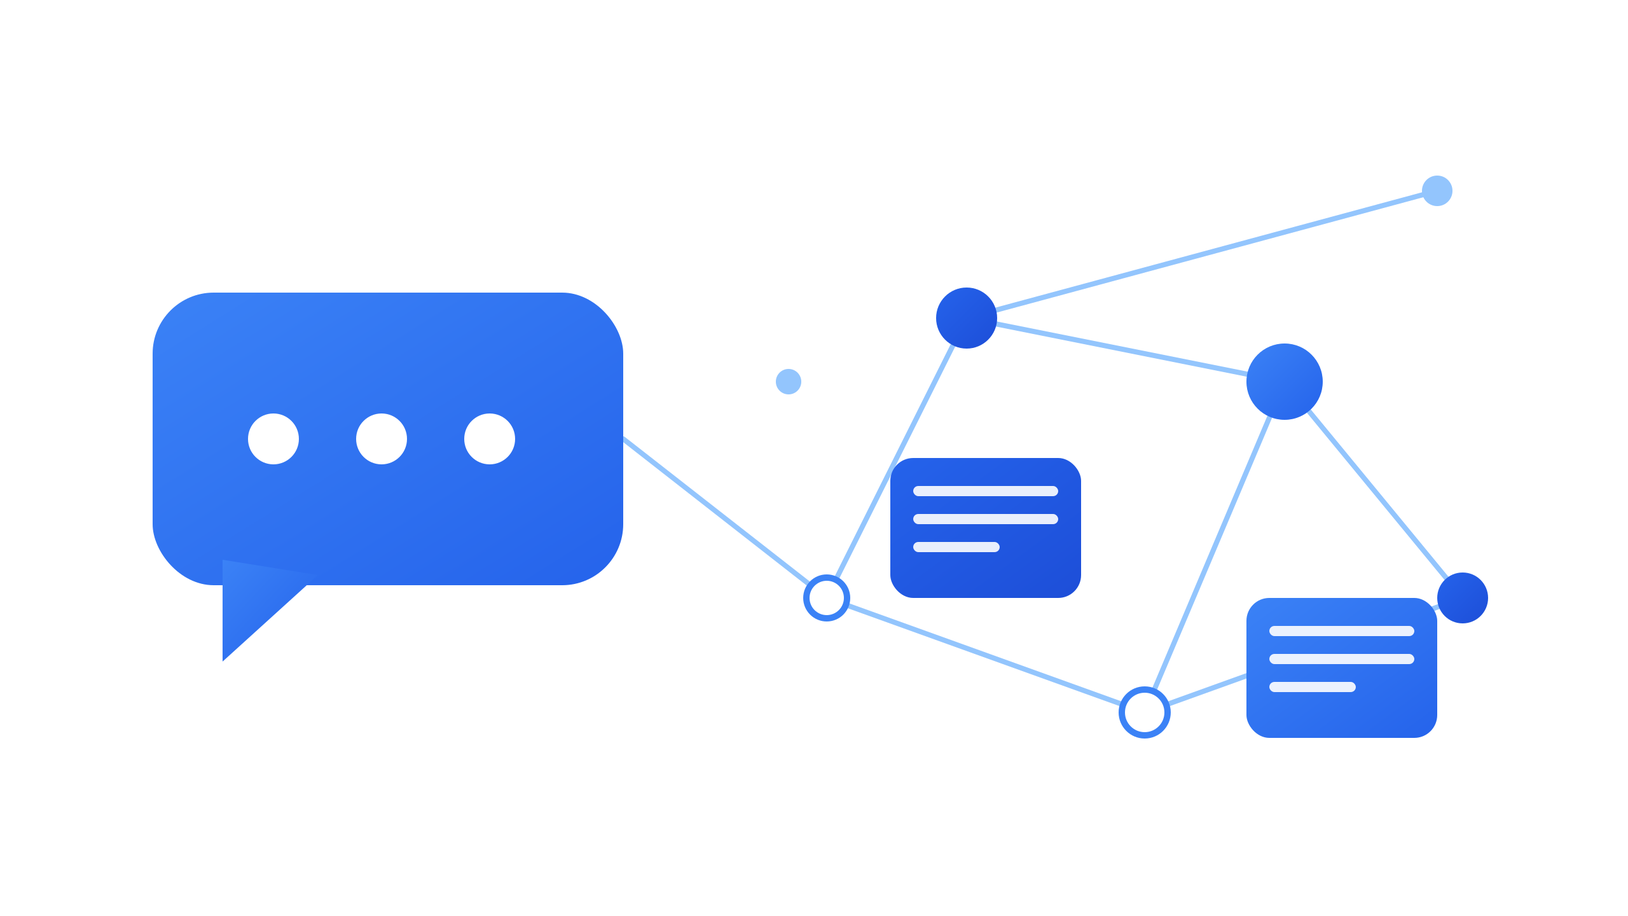
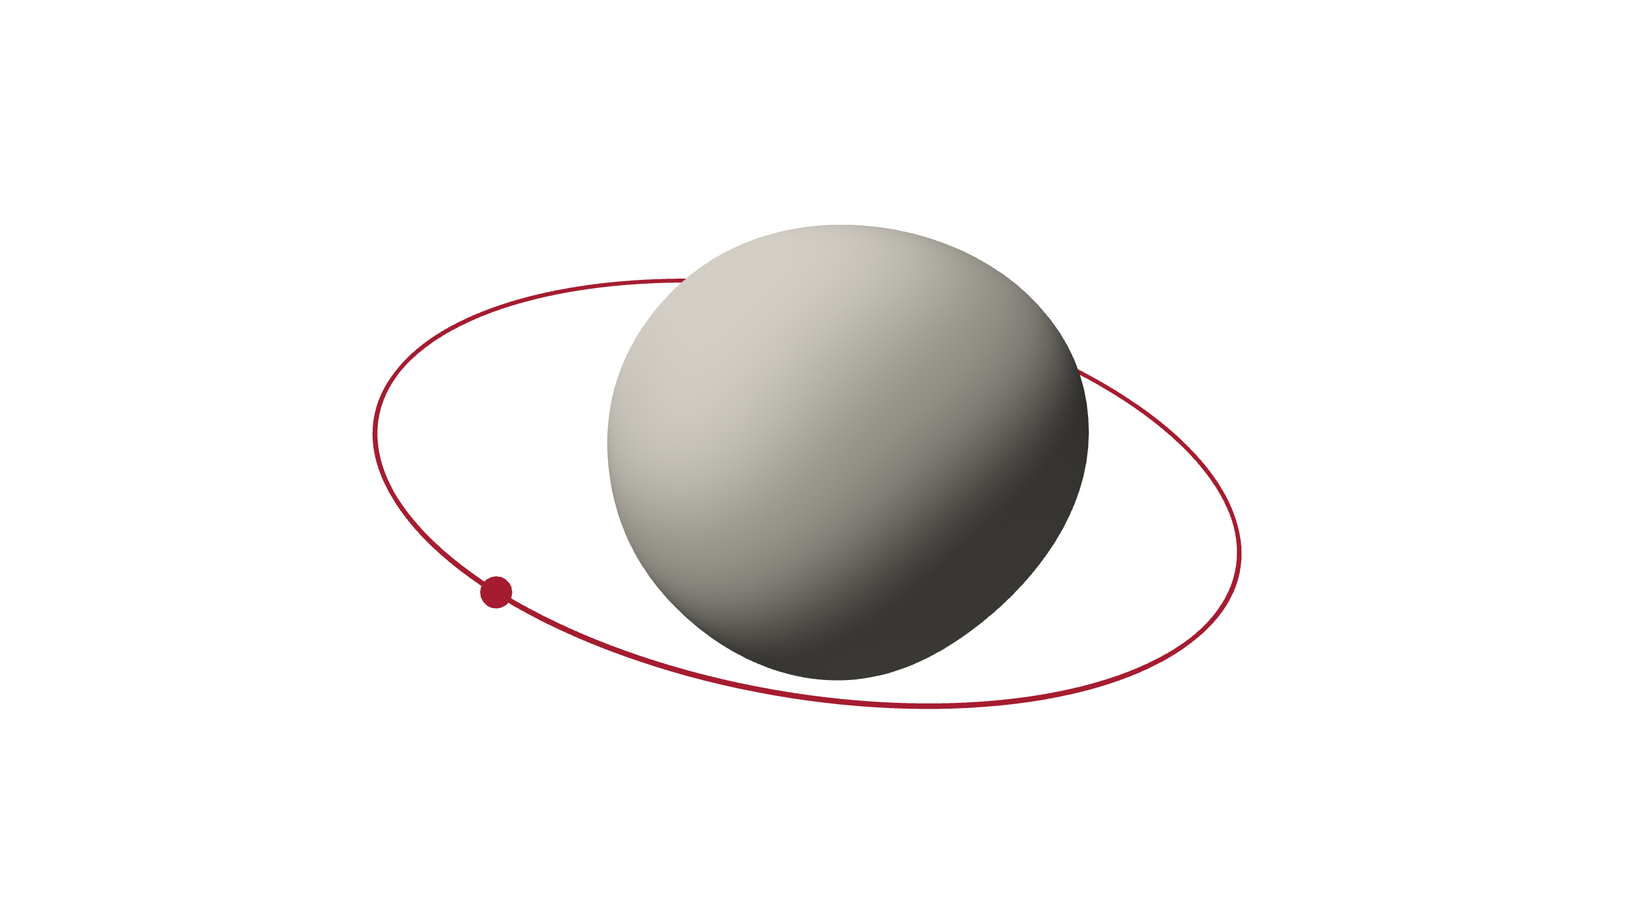
style clean up and some reordering

diff --git a/pages/projects.html b/pages/projects.html
@@ -23,71 +23,80 @@
     <main>
       <section id="projects" class="page-section" data-index="01">
         <h2><span data-lang="en">Projects</span><span data-lang="zh">项目</span></h2>
-        <h3 class="group-title"><span data-lang="en">Game Development Projects</span><span data-lang="zh">游戏开发项目</span></h3>
-        <div class="projects-grid projects-grid--4x4 projects-grid--primary">
-          <article class="project-card project-card--2x2">
-          <a class="card-cover" href="cemented-dreams.html" aria-label="Cemented Dreams - screenshot"></a>
-            <h3><span data-lang="en"><span class="pc-title">Cemented Dreams</span><span class="pc-sep"> | </span><span class="pc-role">Gameplay Engineer &amp; Combat Designer</span></span><span data-lang="zh"><span class="pc-title">Cemented Dreams</span><span class="pc-sep"> | </span><span class="pc-role">玩法工程师／战斗设计师</span></span></h3>
-            <p class="meta"><span data-lang="en">Third-person platformer in a living building - grapple traversal, combat systems, and Hive level design.</span><span data-lang="zh">一款以“活体建筑”为舞台的第三人称平台动作游戏：钩爪穿行、战斗系统，以及 Hive 关卡设计。</span></p>
-            <div class="project-media"><img src="../images/CD_thumbnail.png" alt="Cemented Dreams - screenshot" /></div>
-          </article>
-          <article class="project-card project-card--2x2">
-          <a class="card-cover" href="nothing-can-go-wrong.html" aria-label="Nothing Can Go Wrong - screenshot"></a>
-            <h3><span data-lang="en"><span class="pc-title">Nothing Can Go Wrong</span><span class="pc-sep"> | </span><span class="pc-role">Game Designer &amp; Programmer</span></span><span data-lang="zh"><span class="pc-title">Nothing Can Go Wrong</span><span class="pc-sep"> | </span><span class="pc-role">游戏设计师／程序员</span></span></h3>
-            <p class="meta"><span data-lang="en">A design exploration in indirect control and consequence-driven planning.</span><span data-lang="zh">一次围绕“间接操控”与“谋定而后动”的玩法设计探索。</span></p>
-            <div class="project-media"><img src="../images/nothing_thumbnail.jpg" alt="Nothing Can Go Wrong - screenshot" /></div>
-          </article>
-          <article class="project-card">
-          <a class="card-cover" href="codebreaker.html" aria-label="CodeBreaker - screenshot"></a>
-            <h3><span data-lang="en"><span class="pc-title">Code Breaker</span><span class="pc-sep"> | </span><span class="pc-role">Game Developer</span></span><span data-lang="zh"><span class="pc-title">Code Breaker</span><span class="pc-sep"> | </span><span class="pc-role">游戏开发者</span></span></h3>
-            <div class="project-media"><img src="../images/codebreaker_thumbnail.png" alt="CodeBreaker - screenshot" /></div>
-          </article>
-          <article class="project-card">
-          <a class="card-cover" href="gyrotris.html" aria-label="Gyrotris - screenshot"></a>
-            <h3><span data-lang="en"><span class="pc-title">Gyrotris</span><span class="pc-sep"> | </span><span class="pc-role">Solo Game Developer</span></span><span data-lang="zh"><span class="pc-title">Gyrotris</span><span class="pc-sep"> | </span><span class="pc-role">独立游戏开发者</span></span></h3>
-            <div class="project-media"><img src="../images/gyrotris_thumbnail.png" alt="Gyrotris - screenshot" /></div>
-          </article>
+        <div class="project-group" data-group="game">
+          <h3 class="group-title"><span data-lang="en">Game Development Projects</span><span data-lang="zh">游戏开发项目</span></h3>
+          <div class="projects-grid projects-grid--4x4 projects-grid--primary">
+            <article class="project-card project-card--2x2">
+            <a class="card-cover" href="cemented-dreams.html" aria-label="Cemented Dreams - screenshot"></a>
+              <h3><span data-lang="en"><span class="pc-title">Cemented Dreams</span><span class="pc-sep"> | </span><span class="pc-role">Gameplay Engineer &amp; Combat Designer</span></span><span data-lang="zh"><span class="pc-title">Cemented Dreams</span><span class="pc-sep"> | </span><span class="pc-role">玩法工程师／战斗设计师</span></span></h3>
+              <p class="meta"><span data-lang="en">Third-person platformer in a living building - grapple traversal, combat systems, and Hive level design.</span><span data-lang="zh">一款以“活体建筑”为舞台的第三人称平台动作游戏：钩爪穿行、战斗系统，以及 Hive 关卡设计。</span></p>
+              <div class="project-media"><img src="../images/CD_thumbnail.png" alt="Cemented Dreams - screenshot" /></div>
+            </article>
+            <article class="project-card project-card--2x2">
+            <a class="card-cover" href="nothing-can-go-wrong.html" aria-label="Nothing Can Go Wrong - screenshot"></a>
+              <h3><span data-lang="en"><span class="pc-title">Nothing Can Go Wrong</span><span class="pc-sep"> | </span><span class="pc-role">Game Designer &amp; Programmer</span></span><span data-lang="zh"><span class="pc-title">Nothing Can Go Wrong</span><span class="pc-sep"> | </span><span class="pc-role">游戏设计师／程序员</span></span></h3>
+              <p class="meta"><span data-lang="en">A design exploration in indirect control and consequence-driven planning.</span><span data-lang="zh">一次围绕“间接操控”与“谋定而后动”的玩法设计探索。</span></p>
+              <div class="project-media"><img src="../images/nothing_thumbnail.jpg" alt="Nothing Can Go Wrong - screenshot" /></div>
+            </article>
+            <article class="project-card">
+            <a class="card-cover" href="codebreaker.html" aria-label="CodeBreaker - screenshot"></a>
+              <h3><span data-lang="en"><span class="pc-title">Code Breaker</span><span class="pc-sep"> | </span><span class="pc-role">Game Developer</span></span><span data-lang="zh"><span class="pc-title">Code Breaker</span><span class="pc-sep"> | </span><span class="pc-role">游戏开发者</span></span></h3>
+              <div class="project-media"><img src="../images/codebreaker_thumbnail.png" alt="CodeBreaker - screenshot" /></div>
+            </article>
+            <article class="project-card">
+            <a class="card-cover" href="gyrotris.html" aria-label="Gyrotris - screenshot"></a>
+              <h3><span data-lang="en"><span class="pc-title">Gyrotris</span><span class="pc-sep"> | </span><span class="pc-role">Solo Game Developer</span></span><span data-lang="zh"><span class="pc-title">Gyrotris</span><span class="pc-sep"> | </span><span class="pc-role">独立游戏开发者</span></span></h3>
+              <div class="project-media"><img src="../images/gyrotris_thumbnail.png" alt="Gyrotris - screenshot" /></div>
+            </article>
+          </div>
         </div>
-        <h3 class="group-title"><span data-lang="en">Other Related Works</span><span data-lang="zh">其他相关作品</span></h3>
-        <div class="projects-grid projects-grid--4x4 projects-grid--secondary">
-          <article class="project-card project-card--2x2">
-          <a class="card-cover" href="ai-tarot-projection.html" aria-label="AI Tarot Projection - LLM-guided reflection app"></a>
-            <h3><span data-lang="en"><span class="pc-title">AI Tarot Projection - LLM-Guided Reflection</span><span class="pc-sep"> | </span><span class="pc-role">Solo Developer</span></span><span data-lang="zh"><span class="pc-title">AI 塔罗投射 - 大模型引导的反思应用</span><span class="pc-sep"> | </span><span class="pc-role">独立开发者</span></span></h3>
-            <p class="meta"><span data-lang="en">For people who don&rsquo;t believe in tarot but do believe in thinking out loud: a browser-based reflection app that uses your own API key, with two interchangeable relays governed by one tested contract.</span><span data-lang="zh">写给不信塔罗、却相信把话说出来会有帮助的人：应用在浏览器中运行，使用你自己的 API 密钥；两个可互换的中继遵循同一份契约，并由同一套测试验证。</span></p>
-            <div class="project-media"><img src="../images/ai_tarot_thumbnail.jpg" alt="AI Tarot Projection - a Smith-Waite spread with one card face up" /></div>
-          </article>
-          <article class="project-card project-card--2x2">
-          <a class="card-cover" href="chat-agent.html" aria-label="Portfolio Chat Agent - RAG assistant"></a>
-            <h3><span data-lang="en"><span class="pc-title">Portfolio Chat Agent - Role-Aware RAG</span><span class="pc-sep"> | </span><span class="pc-role">Full-Stack &amp; ML</span></span><span data-lang="zh"><span class="pc-title">作品集聊天助手 - 角色感知 RAG</span><span class="pc-sep"> | </span><span class="pc-role">全栈／机器学习</span></span></h3>
-            <p class="meta"><span data-lang="en">A retrieval-augmented assistant built into this site that answers questions about YC, with a name-blind, cross-language relevance gate and bilingual responses.</span><span data-lang="zh">内嵌于本站的检索增强（RAG）助手，专门回答与 YC 有关的问题；它配有不受姓名干扰的跨语言相关性门控，并支持中英双语回答。</span></p>
-            <div class="project-media"><img src="../images/chat_agent_thumbnail.png" alt="Portfolio Chat Agent - RAG assistant" /></div>
-          </article>
-          <article class="project-card project-card--2x2">
-          <a class="card-cover" href="prime-engine.html" aria-label="Prime Engine - Engine Systems Implementation"></a>
-            <h3><span data-lang="en"><span class="pc-title">Prime Engine - Engine Systems Implementation</span><span class="pc-sep"> | </span><span class="pc-role">Engine Programmer</span></span><span data-lang="zh"><span class="pc-title">Prime Engine - 引擎系统实现</span><span class="pc-sep"> | </span><span class="pc-role">引擎程序员</span></span></h3>
-            <p class="meta"><span data-lang="en">Implemented view frustum culling, physics collision + sliding response, and debug visualization for bounding volumes in a minimal C++ engine.</span><span data-lang="zh">为一个精简的 C++ 引擎实现了视锥剔除、物理碰撞与滑动响应，以及包围体的调试可视化。</span></p>
-            <div class="project-media"><img src="../images/prime_engine_thumbnail.png" alt="Prime Engine - Engine Systems Implementation" /></div>
-          </article>
-          <article class="project-card">
-          <a class="card-cover" href="game-design-workshop.html" aria-label="Game Design Workshop"></a>
-            <h3><span data-lang="en"><span class="pc-title">Physical Game Prototypes</span><span class="pc-sep"> | </span><span class="pc-role">Designer &amp; Producer</span></span><span data-lang="zh"><span class="pc-title">实体游戏原型</span><span class="pc-sep"> | </span><span class="pc-role">设计师／制作人</span></span></h3>
-            <div class="project-media"><img src="../images/ctin488_thumbnail.png" alt="Game Design Workshop" /></div>
-          </article>
-          <article class="project-card">
-          <a class="card-cover" href="3d-rendering.html" aria-label="3D Rendering Project Video"></a>
-            <h3><span data-lang="en"><span class="pc-title">3D Rendering Project</span><span class="pc-sep"> | </span><span class="pc-role">Engineer</span></span><span data-lang="zh"><span class="pc-title">3D 渲染项目</span><span class="pc-sep"> | </span><span class="pc-role">工程师</span></span></h3>
-            <div class="project-media"><img src="../images/3Drendering_thumbnail.png" alt="3D Rendering Project Video" /></div>
-          </article>
-          <article class="project-card">
-          <a class="card-cover" href="aegis-sword.html" aria-label="Aegis Sword - render"></a>
-            <h3><span data-lang="en"><span class="pc-title">Aegis Sword</span><span class="pc-sep"> | </span><span class="pc-role">CAD Modeler</span></span><span data-lang="zh"><span class="pc-title">Aegis Sword</span><span class="pc-sep"> | </span><span class="pc-role">CAD 建模师</span></span></h3>
-            <div class="project-media"><img src="../images/sword_thumbnail.png" alt="Aegis Sword - render" /></div>
-          </article>
-          <article class="project-card">
-          <a class="card-cover" href="automatic-differentiation.html" aria-label="Automatic Differentiation, test.pypi.org"></a>
-            <h3><span data-lang="en"><span class="pc-title">Automatic Differentiation (AD) Toolbox</span><span class="pc-sep"> | </span><span class="pc-role">Python Developer &amp; QA Lead</span></span><span data-lang="zh"><span class="pc-title">自动微分（AD）工具库</span><span class="pc-sep"> | </span><span class="pc-role">Python 开发者／QA 负责人</span></span></h3>
-            <div class="project-media"><img src="../images/AD_thumbnail.png" alt="Automatic Differentiation, test.pypi.org" /></div>
-          </article>
+        <div class="project-group" data-group="agentic">
+          <h3 class="group-title"><span data-lang="en">Agentic AI</span><span data-lang="zh">智能体 AI</span></h3>
+          <div class="projects-grid projects-grid--4x4 projects-grid--secondary">
+            <article class="project-card project-card--2x2">
+            <a class="card-cover" href="ai-tarot-projection.html" aria-label="AI Tarot Projection - LLM-guided reflection app"></a>
+              <h3><span data-lang="en"><span class="pc-title">AI Tarot Projection - LLM-Guided Reflection</span><span class="pc-sep"> | </span><span class="pc-role">Solo Developer</span></span><span data-lang="zh"><span class="pc-title">AI 塔罗投射 - 大模型引导的反思应用</span><span class="pc-sep"> | </span><span class="pc-role">独立开发者</span></span></h3>
+              <p class="meta"><span data-lang="en">For people who don&rsquo;t believe in tarot but do believe in thinking out loud: a browser-based reflection app that uses your own API key, with two interchangeable relays governed by one tested contract.</span><span data-lang="zh">写给不信塔罗、却相信把话说出来会有帮助的人：应用在浏览器中运行，使用你自己的 API 密钥；两个可互换的中继遵循同一份契约，并由同一套测试验证。</span></p>
+              <div class="project-media"><img src="../images/ai_tarot_thumbnail.jpg" alt="AI Tarot Projection - a Smith-Waite spread with one card face up" /></div>
+            </article>
+            <article class="project-card project-card--2x2">
+            <a class="card-cover" href="chat-agent.html" aria-label="Portfolio Chat Agent - RAG assistant"></a>
+              <h3><span data-lang="en"><span class="pc-title">Portfolio Chat Agent - Role-Aware RAG</span><span class="pc-sep"> | </span><span class="pc-role">Full-Stack &amp; ML</span></span><span data-lang="zh"><span class="pc-title">作品集聊天助手 - 角色感知 RAG</span><span class="pc-sep"> | </span><span class="pc-role">全栈／机器学习</span></span></h3>
+              <p class="meta"><span data-lang="en">A retrieval-augmented assistant built into this site that answers questions about YC, with a name-blind, cross-language relevance gate and bilingual responses.</span><span data-lang="zh">内嵌于本站的检索增强（RAG）助手，专门回答与 YC 有关的问题；它配有不受姓名干扰的跨语言相关性门控，并支持中英双语回答。</span></p>
+              <div class="project-media"><img src="../images/chat_agent_thumbnail.png" alt="Portfolio Chat Agent - RAG assistant" /></div>
+            </article>
+          </div>
+        </div>
+        <div class="project-group" data-group="other">
+          <h3 class="group-title"><span data-lang="en">Other Game Related Works</span><span data-lang="zh">其他游戏相关作品</span></h3>
+          <div class="projects-grid projects-grid--4x4 projects-grid--secondary">
+            <article class="project-card project-card--2x2">
+            <a class="card-cover" href="prime-engine.html" aria-label="Prime Engine - Engine Systems Implementation"></a>
+              <h3><span data-lang="en"><span class="pc-title">Prime Engine - Engine Systems Implementation</span><span class="pc-sep"> | </span><span class="pc-role">Engine Programmer</span></span><span data-lang="zh"><span class="pc-title">Prime Engine - 引擎系统实现</span><span class="pc-sep"> | </span><span class="pc-role">引擎程序员</span></span></h3>
+              <p class="meta"><span data-lang="en">Implemented view frustum culling, physics collision + sliding response, and debug visualization for bounding volumes in a minimal C++ engine.</span><span data-lang="zh">为一个精简的 C++ 引擎实现了视锥剔除、物理碰撞与滑动响应，以及包围体的调试可视化。</span></p>
+              <div class="project-media"><img src="../images/prime_engine_thumbnail.png" alt="Prime Engine - Engine Systems Implementation" /></div>
+            </article>
+            <article class="project-card">
+            <a class="card-cover" href="game-design-workshop.html" aria-label="Game Design Workshop"></a>
+              <h3><span data-lang="en"><span class="pc-title">Physical Game Prototypes</span><span class="pc-sep"> | </span><span class="pc-role">Designer &amp; Producer</span></span><span data-lang="zh"><span class="pc-title">实体游戏原型</span><span class="pc-sep"> | </span><span class="pc-role">设计师／制作人</span></span></h3>
+              <div class="project-media"><img src="../images/ctin488_thumbnail.png" alt="Game Design Workshop" /></div>
+            </article>
+            <article class="project-card">
+            <a class="card-cover" href="3d-rendering.html" aria-label="3D Rendering Project Video"></a>
+              <h3><span data-lang="en"><span class="pc-title">3D Rendering Project</span><span class="pc-sep"> | </span><span class="pc-role">Engineer</span></span><span data-lang="zh"><span class="pc-title">3D 渲染项目</span><span class="pc-sep"> | </span><span class="pc-role">工程师</span></span></h3>
+              <div class="project-media"><img src="../images/3Drendering_thumbnail.png" alt="3D Rendering Project Video" /></div>
+            </article>
+            <article class="project-card">
+            <a class="card-cover" href="aegis-sword.html" aria-label="Aegis Sword - render"></a>
+              <h3><span data-lang="en"><span class="pc-title">Aegis Sword</span><span class="pc-sep"> | </span><span class="pc-role">CAD Modeler</span></span><span data-lang="zh"><span class="pc-title">Aegis Sword</span><span class="pc-sep"> | </span><span class="pc-role">CAD 建模师</span></span></h3>
+              <div class="project-media"><img src="../images/sword_thumbnail.png" alt="Aegis Sword - render" /></div>
+            </article>
+            <article class="project-card">
+            <a class="card-cover" href="automatic-differentiation.html" aria-label="Automatic Differentiation, test.pypi.org"></a>
+              <h3><span data-lang="en"><span class="pc-title">Automatic Differentiation (AD) Toolbox</span><span class="pc-sep"> | </span><span class="pc-role">Python Developer &amp; QA Lead</span></span><span data-lang="zh"><span class="pc-title">自动微分（AD）工具库</span><span class="pc-sep"> | </span><span class="pc-role">Python 开发者／QA 负责人</span></span></h3>
+              <div class="project-media"><img src="../images/AD_thumbnail.png" alt="Automatic Differentiation, test.pypi.org" /></div>
+            </article>
+          </div>
         </div>
         <article class="project-card" id="flip-game">
           <h3><span data-lang="en">Flip Card Minigame</span><span data-lang="zh">翻牌小游戏</span></h3>
@@ -116,6 +125,7 @@
     </footer>
   </div>
 
+  <script src="../scripts/project-order.js"></script>
   <script src="../scripts/flip-game.js"></script>
   <script src="../scripts/media-bleed.js"></script>
 </body>

diff --git a/scripts/project-order.js b/scripts/project-order.js
@@ -1,0 +1,42 @@
+// Projects page: order the project groups for the visitor role picked in the
+// chat. The role lives in the chat widget's tab-scoped session store
+// (chat-widget.js, STORE_KEY), so a role picked on any page carries over
+// here; picking one on this page reorders the groups at once
+// ('ycchat-role'). The markup's own order is the default, so without a role,
+// storage or this script the page reads game -> agentic -> other.
+(function () {
+  'use strict';
+
+  var STORE_KEY = 'yc-chat-session';
+  var DEFAULT = ['game', 'agentic', 'other'];
+  var ORDERS = {
+    ai_agent_recruiter: ['agentic', 'game', 'other'],
+    combat_design_recruiter: ['game', 'other', 'agentic']
+  };
+
+  var groups = {};
+  var list = document.querySelectorAll('.project-group[data-group]');
+  if (!list.length) return;
+  for (var i = 0; i < list.length; i++) groups[list[i].getAttribute('data-group')] = list[i];
+  var parent = list[0].parentNode;
+  var anchor = list[list.length - 1].nextSibling;
+
+  function storedRole() {
+    try {
+      var data = JSON.parse(sessionStorage.getItem(STORE_KEY) || 'null');
+      return data && data.role || null;
+    } catch (e) { return null; }
+  }
+
+  // Moves nodes rather than restyling them, so reading and tab order follow
+  // what is on screen; the card numbers (a CSS counter) follow too.
+  function apply(role) {
+    var order = ORDERS[role] || DEFAULT;
+    for (var j = 0; j < order.length; j++) {
+      if (groups[order[j]]) parent.insertBefore(groups[order[j]], anchor);
+    }
+  }
+
+  apply(storedRole());
+  window.addEventListener('ycchat-role', function (e) { apply(e.detail && e.detail.role); });
+})();

diff --git a/styles.css b/styles.css
@@ -106,7 +106,11 @@
 
   --cols: 12;
   --gap: clamp(12px, 1.3vw, 24px);
-  --margin: clamp(20px, 4vw, 72px);
+  --margin-base: clamp(20px, 4vw, 72px);
+  --margin: var(--margin-base);
+  /* The Ask AI stone's footprint, lower left on inner pages: its inset and
+     84px canvas (chat-widget.js, .ycchat-btn.is-stone) plus one gutter. */
+  --stone-reserve: calc(.5rem + 84px + var(--gap));
   /* Content never grows past this; wide screens get margin, not bigger type
      and media. */
   --maxw: 1280px;
@@ -133,6 +137,13 @@
 }
 @media (max-width: 1023px) { :root { --cols: 6; } }
 @media (max-width: 639px)  { :root { --cols: 4; } }
+/* Wide landscape screens: the page margin clears the fixed stone, and the
+   right margin matches so the column stays centred. Where the 1280px cap
+   already leaves that much room, the column does not move. Portrait and
+   square screens keep the plain margin. The homepage lays out its own. */
+@media (min-width: 1024px) and (orientation: landscape) {
+  body:not(.p3-body) { --margin: max(var(--margin-base), var(--stone-reserve)); }
+}
 
 /* Chinese: no tracking on CJK, and more leading than Latin needs. */
 html[lang="zh"] {
@@ -419,7 +430,9 @@ main { display: block; padding-top: var(--s8); }
 }
 
 /* ---------- Projects ---------- */
-#projects { counter-reset: project; }
+/* Numbered within each group: the groups reorder by chat role
+   (scripts/project-order.js), so a page-wide count would shift. */
+.projects-grid { counter-reset: project; }
 .wrap .group-title {
   padding-top: var(--s3);
   margin-bottom: var(--s5);

diff --git a/scripts/chat-widget.js b/scripts/chat-widget.js
@@ -1152,6 +1152,8 @@
     renderLog();
     updateClearVisibility();
     saveSession();
+    // Pages that adapt to the role (project-order.js) listen for this.
+    window.dispatchEvent(new CustomEvent('ycchat-role', { detail: { role: id } }));
     els.input.focus();
   }
 

diff --git a/chat/knowledge/about_en.md b/chat/knowledge/about_en.md
@@ -132,10 +132,10 @@ the same third-person action game.
 ## How the projects page is organized
 link: pages/projects.html
 The projects page is split into a games section (Cemented Dreams, Nothing
-Can Go Wrong, Code Breaker, Gyrotris) and an "other related works" section
-covering AI Tarot Projection, the chat agent, Prime Engine, physical game
-prototypes, the 3D rendering project, Aegis Sword, and the automatic
-differentiation toolbox.
+Can Go Wrong, Code Breaker, Gyrotris), an agentic AI section (AI Tarot
+Projection and the chat agent), and an "other game related works" section
+covering Prime Engine, physical game prototypes, the 3D rendering project,
+Aegis Sword, and the automatic differentiation toolbox.
 
 ## Shipped games versus supporting engineering work
 link: pages/projects.html
